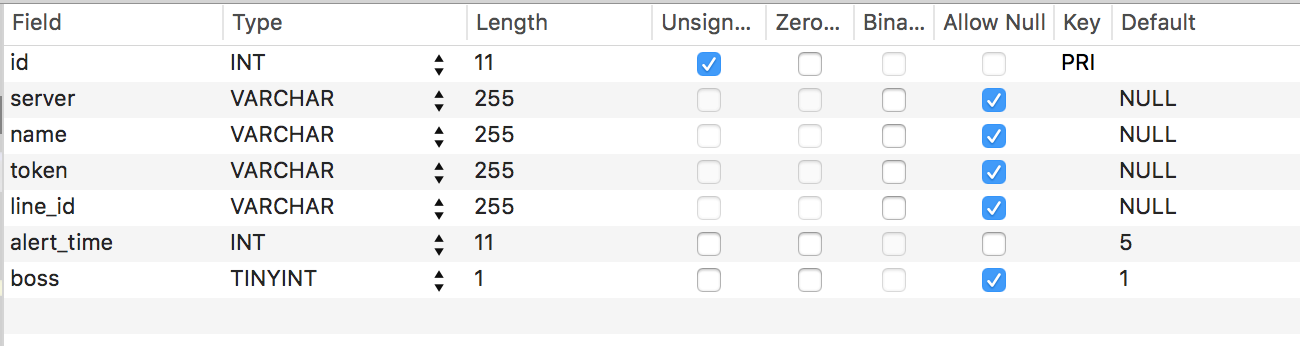
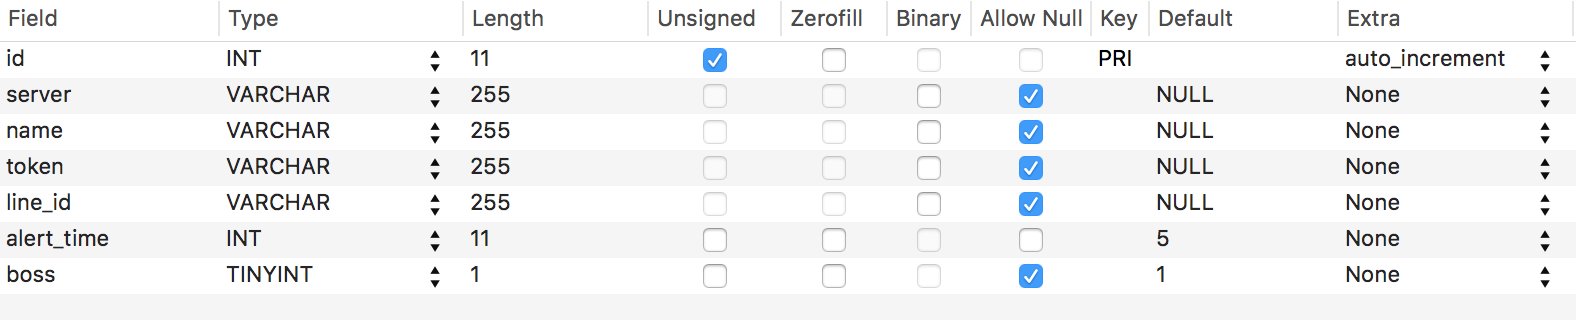
補齊資料庫資訊

diff --git a/README.md b/README.md
@@ -30,6 +30,19 @@
 #### 5. MySQL
 >這算是很老牌的資料庫了，網路資源很多這邊我就不多做介紹了。
 ><br><br>
->資料庫裡面需要五張 Table 分別是:
+>資料庫裡面需要建立五張 Table 分別是:
 > * clan Table<br>
-> ![clan Table](/public/clan.png)
+> 這張表主要紀錄血盟資訊及認證碼<br>
+> ![clan Table](/public/clan.png)<br>
+> * boss Table<br>
+> 這張表主要紀錄 Boss 資訊<br>
+> ![boss Table](/public/boss.png)<br>
+> * member Table<br>
+> 這張表主要紀錄吃王團成員資訊<br>
+> ![member Table](/public/member.png)<br>
+> * list Table<br>
+> 這張表主要紀錄掉寶資訊<br>
+> ![list Table](/public/list.png)<br>
+> * queue Table<br>
+> 這張表主要紀錄排隊取寶資訊<br>
+> ![queue Table](/public/queue.png)<br>
